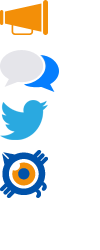
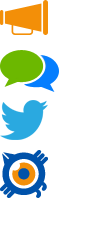
Update Community block on index page

Changed region(s): [[0.0, 0.196, 0.45, 0.364]]

diff --git a/css/components/kotlin-overview/kotlin-overview.css b/css/components/kotlin-overview/kotlin-overview.css
@@ -690,12 +690,16 @@
       text-align: center;
       text-decoration: none; }
     .kotlin-overview-section._community .links-list-item .link-icon {
+      background-image: -moz-linear-gradient(#d4d4d4, #bbbbbb);
+      background-image: -webkit-gradient(linear, 0% 0%, 0% 100%, from(#d4d4d4), to(#bbbbbb));
+      background-image: -webkit-linear-gradient(#d4d4d4, #bbbbbb);
+      background-image: -o-linear-gradient(#d4d4d4, #bbbbbb);
       position: relative;
       display: block;
-      margin-bottom: 5px;
-      width: 100px;
-      height: 100px;
-      background-color: #fff;
+      margin-bottom: 9px;
+      width: 104px;
+      height: 104px;
+      background-color: #cbcbcb;
       border-radius: 50px; }
       .kotlin-overview-section._community .links-list-item .link-icon:after {
         position: absolute;

diff --git a/css/components/kotlin-overview/kotlin-overview.scss b/css/components/kotlin-overview/kotlin-overview.scss
@@ -613,12 +613,13 @@
         }
 
         .link-icon {
+            @include linear-gradient($from: #d4d4d4, $to: #bbb);
             position: relative;
             display: block;
-            margin-bottom: 5px;
-            width: 100px;
-            height: 100px;
-            background-color: #fff;
+            margin-bottom: 9px;
+            width: 104px;
+            height: 104px;
+            background-color: #cbcbcb;
             border-radius: 50px;
 
             &:after {
